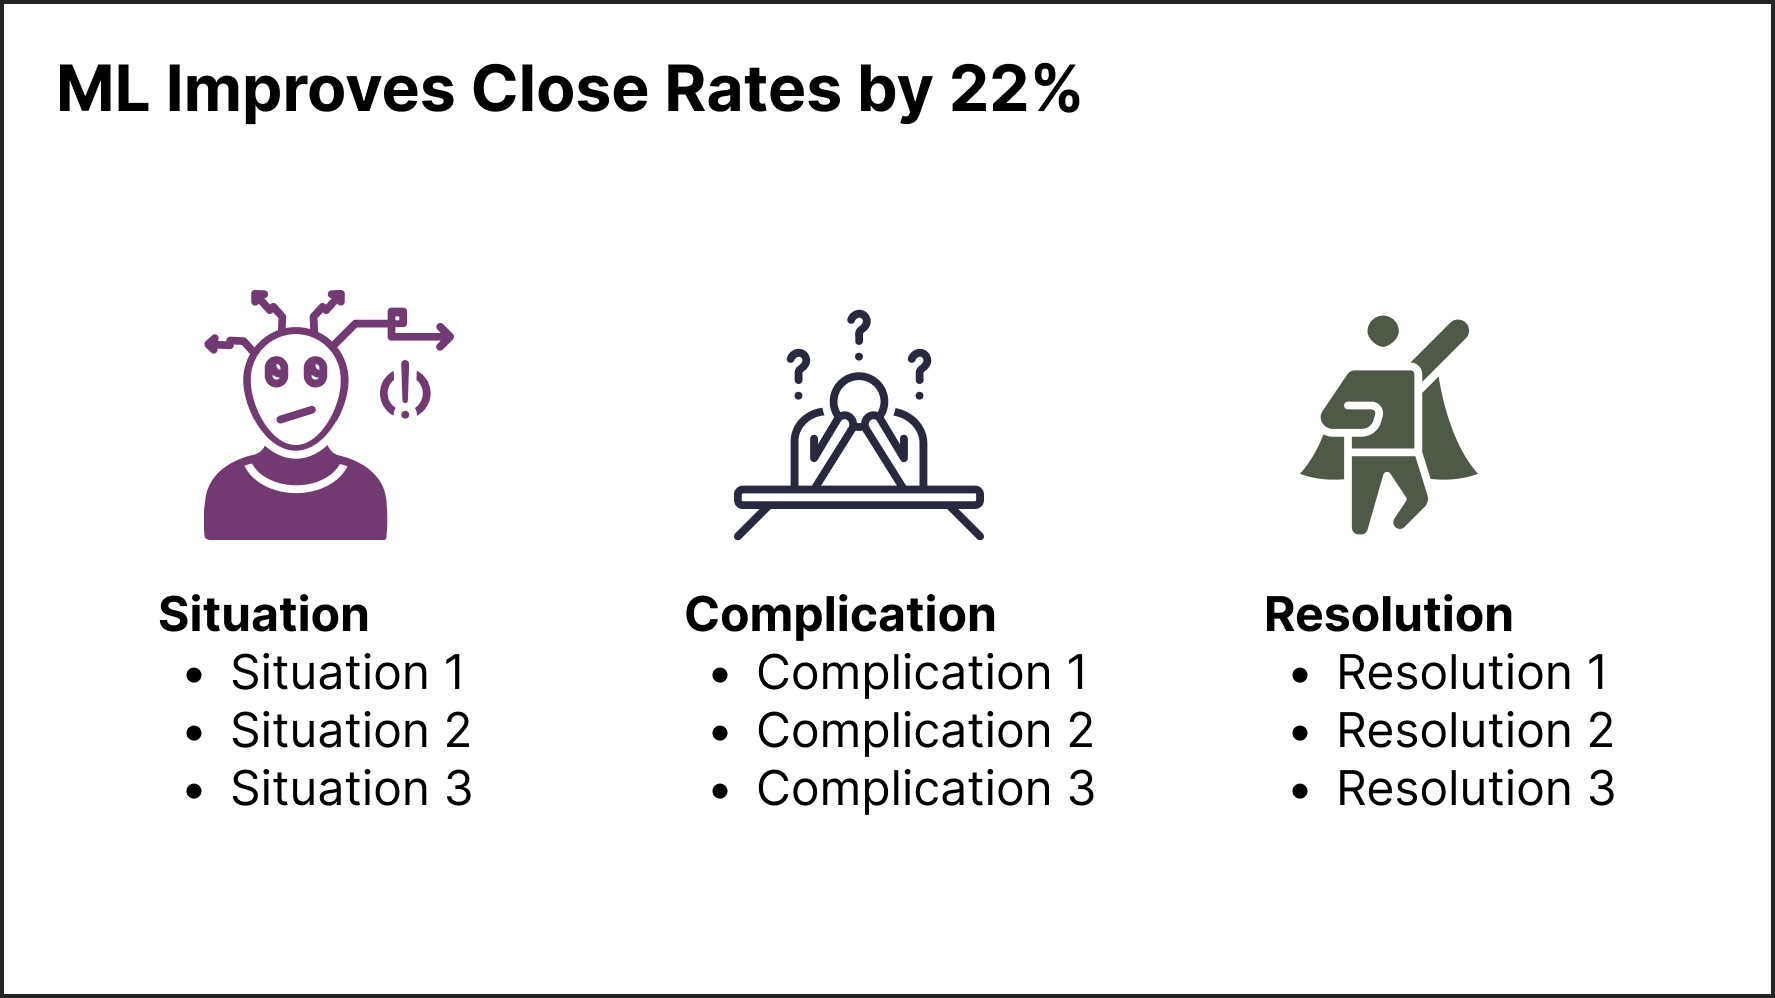
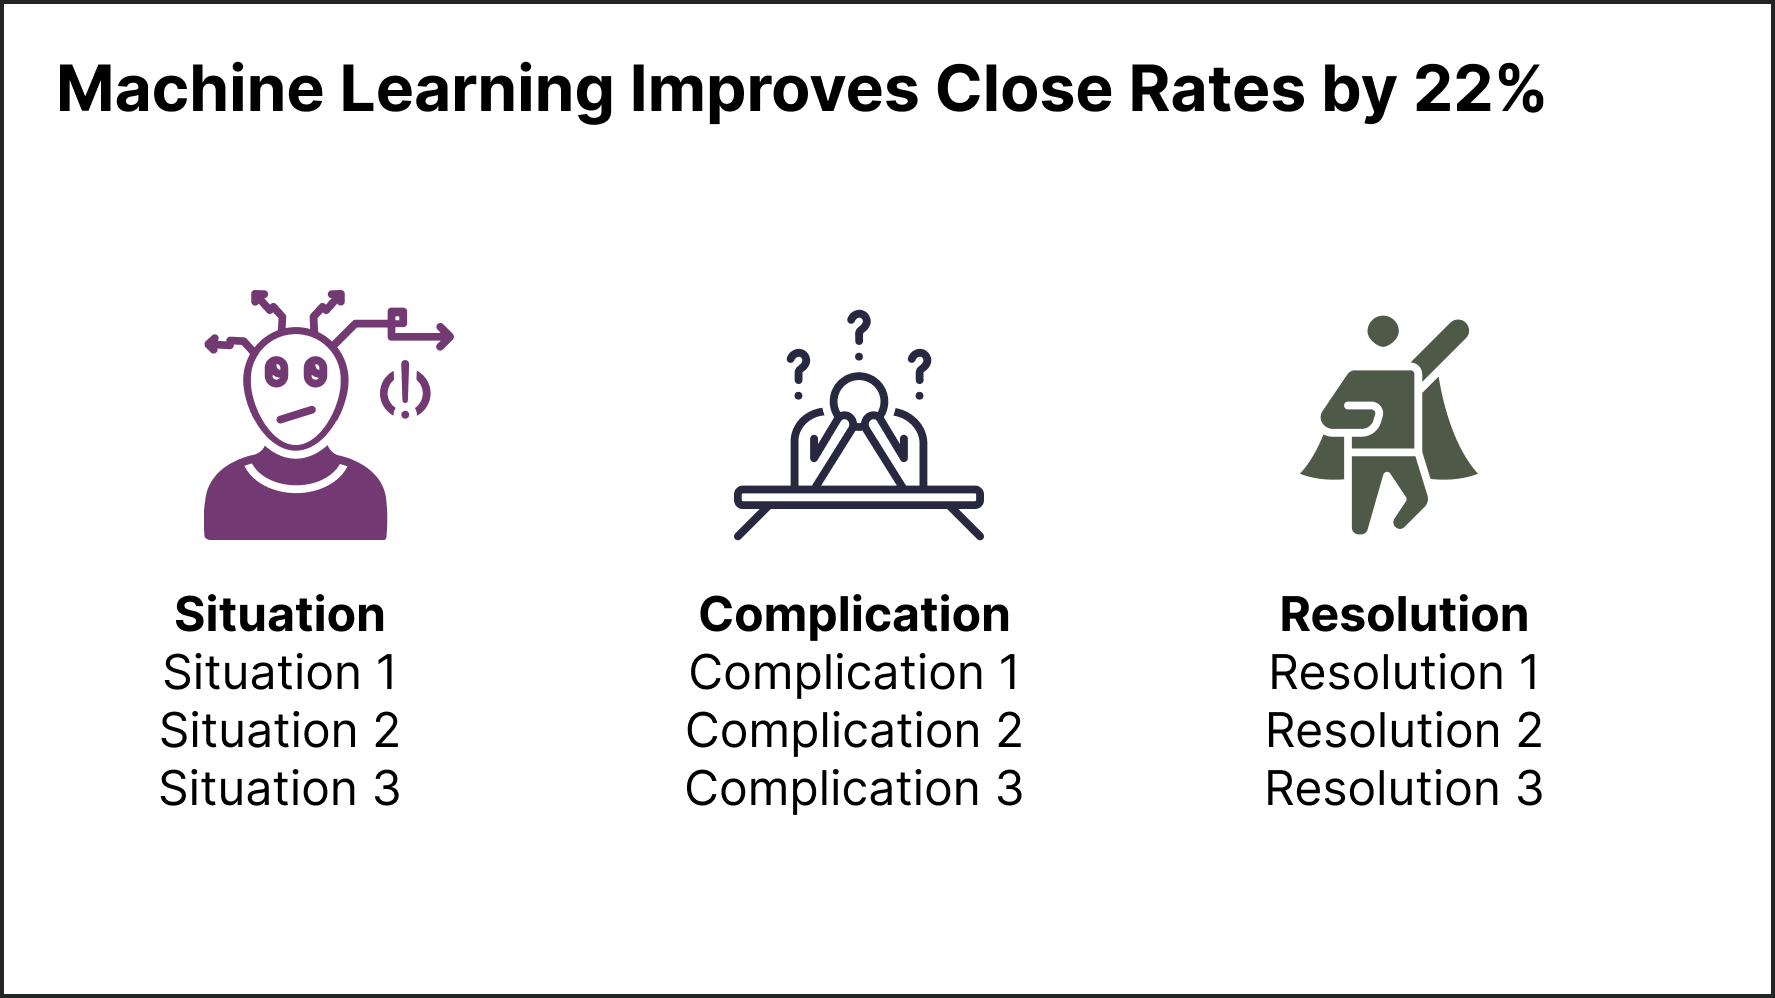
Published

diff --git a/seo_report.html b/seo_report.html
@@ -15,6 +15,103 @@
             <article>
 
                 <div class="article-header">
+                    <h2>storytelling.html</h2>
+                    
+                    <span>2022-06-19 00:00</span>
+                    
+                </div>
+
+                
+
+                    <h3>Page title analysis</h3>
+
+                    <table>
+                        
+                        <tr>
+                            <th class="green">Good</th>
+                            
+                            <td>You have declared a title. Nice job !</td>
+                            
+                            <td>Your title has a good longer.</td>
+                            
+                        </tr>
+                        
+
+                        
+
+                        
+
+                    </table>
+
+                
+
+                    <h3>Page description analysis</h3>
+
+                    <table>
+                        
+                        <tr>
+                            <th class="green">Good</th>
+                            
+                            <td>You have declared a description. Nice job !</td>
+                            
+                            <td>Your description has a good longer</td>
+                            
+                        </tr>
+                        
+
+                        
+
+                        
+
+                    </table>
+
+                
+
+                    <h3>Content title analysis</h3>
+
+                    <table>
+                        
+                        <tr>
+                            <th class="green">Good</th>
+                            
+                            <td>You have declared a content title. Nice job !</td>
+                            
+                        </tr>
+                        
+
+                        
+
+                        
+
+                    </table>
+
+                
+
+                    <h3>Internal link analysis</h3>
+
+                    <table>
+                        
+
+                        
+
+                        
+                        <tr>
+                            <th class="red">Problems</th>
+                            
+                            <td>It's better to include internal links.</td>
+                            
+                        </tr>
+                        
+
+                    </table>
+
+                
+
+            </article>
+            
+            <article>
+
+                <div class="article-header">
                     <h2>featureeng.html</h2>
                     
                     <span>2022-05-15 00:00</span>
@@ -876,106 +973,6 @@
                             <th class="green">Good</th>
                             
                             <td>You've included 6 internal                     links. Nice job !</td>
-                            
-                        </tr>
-                        
-
-                        
-
-                        
-
-                    </table>
-
-                
-
-            </article>
-            
-            <article>
-
-                <div class="article-header">
-                    <h2>bowtfidf.html</h2>
-                    
-                    <span>2022-01-22 00:00</span>
-                    
-                </div>
-
-                
-
-                    <h3>Page title analysis</h3>
-
-                    <table>
-                        
-                        <tr>
-                            <th class="green">Good</th>
-                            
-                            <td>You have declared a title. Nice job !</td>
-                            
-                        </tr>
-                        
-
-                        
-                        <tr>
-                            <th class="orange">To improve</th>
-                            
-                            <td>Your title is too short. The recommended length is 70 characters.</td>
-                            
-                        </tr>
-                        
-
-                        
-
-                    </table>
-
-                
-
-                    <h3>Page description analysis</h3>
-
-                    <table>
-                        
-
-                        
-
-                        
-                        <tr>
-                            <th class="red">Problems</th>
-                            
-                            <td>You need to declare a description to improve SEO.</td>
-                            
-                        </tr>
-                        
-
-                    </table>
-
-                
-
-                    <h3>Content title analysis</h3>
-
-                    <table>
-                        
-
-                        
-
-                        
-                        <tr>
-                            <th class="red">Problems</th>
-                            
-                            <td>You're missing a content title.</td>
-                            
-                        </tr>
-                        
-
-                    </table>
-
-                
-
-                    <h3>Internal link analysis</h3>
-
-                    <table>
-                        
-                        <tr>
-                            <th class="green">Good</th>
-                            
-                            <td>You've included 1 internal                     links. Nice job !</td>
                             
                         </tr>
                         

diff --git a/content/posts/other/storytelling.md b/content/posts/other/storytelling.md
@@ -1,12 +1,12 @@
-Title: Tips for Creating a Compelling Presentation for all Data Scientists
-Date: 2022-06-07
-Modified: 2022-06-07
-Status: draft
-Tags: analytics, datascience, visualization
+Title: 8 Tips for Creating a Compelling Presentation for Data Science
+Date: 2022-06-19
+Modified: 2022-06-19
+Status: published
+Tags: analytics, datascience, visualization, communication
 Slug: storytelling
 Authors: Brian Roepke
 Summary: Tricks every analyst and data scientist can learn to make a compelling presentation
-Description: One skill every Data Scientist needs to learn is  the ability to create a compelling data science presentation, capturing your audiences attention with key takeaways.
+Description: One skill every Data Scientist needs to learn is the ability to create a compelling presentation, capturing your audience's attention with key takeaways.
 Header_Cover: images/covers/story.jpg
 Og_Image: images/covers/story.jpg
 Twitter_Image: images/covers/story.jpg
@@ -14,11 +14,11 @@ Twitter_Image: images/covers/story.jpg
 
 # How to Create a Compelling Slide Deck
 
-As a data scientist, or an analyst, we spend countless hours perfecting our ability to analyze data, build machine learning models, and keep up with the latest technology trends.  One skill however, that everyone needs is the ability to create a compelling data science presentation.
+As data scientists or analysts, we spend countless hours perfecting our ability to analyze data, build machine learning models, and keep up with the latest technology trends. One skill, however, that everyone needs is the ability to create a compelling presentation.
 
->Every Data Scientist, Analyst and Data Engineer needs to get good at building a compelling presentation.
+>Every Data Scientist, Analyst, and Data Engineer needs to get good at building a compelling presentation.
 
-Here are tips and tricks I've gathered over 20 years of presenting to executives, customers, and peers.  None of these tips are actually limited to Data Science and can be used for anyone creating a presentation.  Let's take a qucik look at them.
+Here are tips and tricks I've gathered over 20 years of presenting to executives, customers, and peers. None of these tips are limited to Data Science and can be used by anyone creating a presentation; let's take a quick look at them.
 
 1. Start With an Outline
 2. Storytelling with Situation, Complication, Resolution
@@ -26,75 +26,105 @@ Here are tips and tricks I've gathered over 20 years of presenting to executives
 4. The Rule of Three
 5. Write Slide Titles as Outcomes
 6. Reading Titles Outloud
-7. Bolding Keywords
+7. Focus Your Audience's Attention
 8. Creating Compelling Data Visualizations
 
 Let's get started! 
 
 ## Start With an Outline
 
-Often times, when starting a presentation, they open PowerPoint, Keynote or their tool of choice and start trying to immedialy build the deck.  This issues of course is you're going to iterate 100 times on the slides and probably end up deleting most of what you've created.  
+When starting a presentation, they often open PowerPoint, Keynote, or their tool of choice and start trying to build the deck immediately. This issue, of course, is that you're going to iterate 100 times on the slides and probably end up deleting most of what you've created. 
 
-A better way to approach this is to start with an **outline**, No different than you were taught in English 101.  But don't think of this as an outline of the slides you want to create, think of this as the story you're going to tell.  There are two common ways to create an outline. The first is by simply using orderd lists and scructure your online by ideas or sections of your story (I'll cover the stoytelling part next) or if you're a more visual person you can use a **mind map** and structure it similarily.
+A better way to approach this is to start with an **outline**, No different than you were taught in English 101. But don't think of this as an outline of the slides you want to create.  Think of the outline as the story you're going to tell. There are two common ways to create an outline. The first is simply using ordered lists and structuring your online by ideas or sections of your story (I'll cover the storytelling part next). If you're a more visual person, you can use a **mind map** and structure it similarily.
 
-Once you have your ouline set, creating the supporting content is a breeze.
+Once you have your outline set, creating the supporting content is a breeze.
 
 ## Storytelling with Situation, Complication, Resolution
 
-A classic story telling framework is known as the [Hero's Journey](https://en.wikipedia.org/wiki/Hero%27s_journey).  The general idea is that a hero goes on a journey, some sort of obstical is introduced into and finally the hero is able to overcome that obstical and everyone lives hapily ever after.
+A classic storytelling framework is the [Hero's Journey](https://en.wikipedia.org/wiki/Hero%27s_journey). The general idea is that a hero goes on a journey and introduces some obstacles; finally, the hero can overcome that obstacle, and everyone lives happily ever after.
 
-In our business presentations we can use a similar framework called **Situation-Complication-Resolution** or **SCR**.  I was first introduced to SCR through the book [The Pyramid Principle](https://www.amazon.com/Pyramid-Principle-Logic-Writing-Thinking/dp/1292372265) by Barbara Minto who popularized this method while working at McKinsey Consulting.  The structure of this is perfect for creating a business story.  It's a simple framework, it keeps you organized in your structure, it brings action oriented results, and it fits into the Rule-of-Three which I'll cover later.
+In our business presentations, we can use a similar framework called **Situation-Complication-Resolution** or **SCR**. I was first introduced to SCR through the book [The Pyramid Principle](https://www.amazon.com/Pyramid-Principle-Logic-Writing-Thinking/dp/1292372265) by Barbara Minto, who popularized this method while working at McKinsey Consulting. The structure of this is perfect for creating a business story. It's a simple framework that keeps you organized in your structure, brings action-oriented results, and fits into the Rule-of-Three, which I'll cover later.
 
 * **Situation**: Facts about the current state.
-* **Complication**: The reason action is required based on the situation.
-* **Resolution**: The action taken or reccomended to solve the complication.
+* **Complication**: Action is required based on the situation.
+* **Resolution**: The action is taken or recommended to solve the complication.
 
-Using our outline format, here is an overly simplified example of of SCR.  In practice, you would introduce more details as sub items of the nodes. Utilizing SCR will help you create a clean, compelling story!
+Using our outline format, here is an overly simplified example of SCR. In practice, you would introduce more details as sub-items of the nodes. Utilizing SCR will help you create a clean, compelling story!
 
 ![Mind Map Outline]({static}../../images/posts/storytelling_01.png)
 
 ## The One Miniute Per Slide Rule
 
-This one is simple and effective. As opposed to creating your presentation and reherssing the timing, just consider that each major content slide will **take one minute to present**.  If you have a 20 minute presentation, aim for 20 slides with content.  This doesn't include section dividers, the cover or a closing logo slide.  What i've found over the years is that generally speaking, some will take longer, some will be shorter, but on average, they'll take about a minute.
+This one is simple and effective. Instead of creating your presentation and rehearsing the timing, consider that each major content slide will **take one minute to present**. If you have a 20-minute presentation, aim for 20 slides with content. You should not include section dividers, the cover, or a closing logo slide in your count. I've found over the years that, generally speaking, some will take longer, some will be shorter, but on average, they'll take about a minute.
 
-Eliminate the stress from trying to figure out how much content you need to create.
+Eliminate the stress from figuring out how much content you need to create.
 
 ## The Rule of Three
 
-Another wonderful rule of thumb is the **Rule of Three**.  The rule of three is simple, stick with three and only three items when building your structure.  Whether it's sections of your story, as in the SCR framework, or the number of bullet points on your slide.  [Apple](https://www.inc.com/carmine-gallo/apple-is-obsessed-with-magical-number-3-it-will-transform-your-presentations-too.html) has implemented this all over their presentation and product lines and [science has shown](http://uberconvince.com/2018/01/14/rule-3-trios-makes-copy-memorable-according-science/) that our brain loves patterns and three is the minimum number needed to form a [pattern](https://copyblogger.com/rule-of-three/).
+Another great rule of thumb is the **Rule of Three**. The rule of three is simple: stick with three and only three items when building your structure, sections of your story, as in the SCR framework, or the number of bullet points on your slide. [Apple](https://www.inc.com/carmine-gallo/apple-is-obsessed-with-magical-number-3-it-will-transform-your-presentations-too.html) has implemented this all over their presentation and product lines, and [science has shown](http://uberconvince.com/2018/01/14/rule-3-trios-makes-copy-memorable-according-science/) that our brain loves patterns and three is the minimum number needed to form a [pattern](https://copyblogger.com/rule-of-three/).
 
-Structuring your slides utilizing the rule of three will not only help your audience remember your content, but it will also simplify building the presentation.  You might be tempted to think "more information is better with four, six, eight bullet points.  No one will ever be able to follow all of that, so cut it down to the three most impactful messages.
+Structuring your slides utilizing the rule of three will help your audience remember your content and simplify building the presentation. You might be tempted to think, "more information is better with four, six, or eight bullet points. No one will ever be able to follow all that, so cut it down to the three most impactful messages.
 
-Another trick if you have slightly more information is to structure in three-by-three like the image below.  
+Another trick if you have slightly more information is to structure it three-by-three like the image below. 
 
 ![Mind Map Outline]({static}../../images/posts/storytelling_02.png)
 
 ## Write Slide Titles as Outcomes
 
+I often see the mistake of Data Scientists writing their slide titles describing what is on the slide vs. what the **outcome** or **takeaway** of the slide is. This simple practice you can get into will dramatically improve your presentation with little effort. Let's take a look at a couple of examples.
 
+| Subject-Based                          | Outcome-Based                                               |
+|----------------------------------------|-------------------------------------------------------------|
+| Algorithm Training and Validation      | Predict Customer Churn with 92% Accuracy                    |
+| Q1 Conversation Rates                  | Accounts With Direct Contact are 5x More Likely to Purchase |
+| Utilizing XGBoost to Classify Accounts | Machine Learning Improves Close Rates by 22%                |
+
+It is pretty clear with examples like this which is more compelling to your audience. Remember, your slide titles are the **outcome** of your slide!
 
 ## Reading Titles Outloud
 
-There are [plenty](https://hbr.org/2013/06/how-to-give-a-killer-presentation) [of](https://www.inc.com/jason-aten/please-stop-reading-off-your-powerpoint-slides-heres-what-to-do-instead.html) [articles](https://www.techwell.com/2013/10/give-better-presentation-don-t-read-your-slides) that will tell you not to read your slides outloud.  Reading your content directly from your slides is a sure fire way to bore your audiece and loose their attention.
+There are [plenty](https://hbr.org/2013/06/how-to-give-a-killer-presentation) [of](https://www.inc.com/jason-aten/please-stop-reading-off-your-powerpoint-slides-heres-what-to-do-instead.html) [articles](https://www.techwell.com/2013/10/give-better-presentation-don-t-read-your-slides) that will tell you not to read your slides out loud. Reading your content directly from your slides is a sure-fire way to bore your audience and lose their attention.
 
-However, I have one caveat to that rule; **read your slide titles outloud**.  
+However, I have one caveat to that rule; **read your slide titles out loud**. 
 
 According to [Naegle](https://doi.org/10.1371/journal.pcbi.1009554): 
 
->Reading and verbal processing use the same cognitive channels—therefore, an audience member can either read the slide, listen to you, or do some part of both (each poorly), as a result of cognitive overload.
+>Reading and verbal processing use the same cognitive channels—therefore, an audience member can either read the slide, listen to you, or do some part of both (each poorly) due to cognitive overload.
 
-By reading just the tile and title only as you start each slide, the audience will be able to process the message much more easily vs. reading the words that are written and listening to you at the same time.  While this might feel uncomfortable at first, practice it a bit with some colleagues and see for yourself! 
+By reading just the tile and title only as you start each slide, the audience will be able to process the message much more easily than reading the written words and listening to you simultaneously. While this might feel uncomfortable initially, practice it with some colleagues and see for yourself! 
 
-For the rest of the slide, do not to read the conntent, especially if you ues a lot of bulleted or ordered lists.  This can be monotonous as mentiond above.
+For the rest of the slide, do not read the content, especially if you use a lot of bulleted or ordered lists. Reading all of your content can be monotonous, as mentioned above.
 
-## Bolding Keywords
+## Focus Your Audience's Attention
 
+When you have more than just a single word or number on your slide (which can also be a really powerful practice), you can leverage techniques or attributes to focus your audience's attention on the most important words. These attention getters are known as **preattentive attributes**.
+
+When your eyes and brain first see a slide, for the first fraction of a second, you are drawn to different elements that stand out. Items can be in **bold**, **italics**, or a different **color** or **size**. The fact that they are different from the main text is how you can focus your attention.
+
+A great example of this is adapted from Stephen Few's [Tapping into the Power of Visual Perception](http://www.perceptualedge.com/articles/ie/visual_perception.pdf). When we look at the first block of text, it all tends to blend. If we were to ask you, "tell me how many number sevens there are," it would take a little time.
+
+![Without Preattentive Attributes]({static}../../images/posts/storytelling_03.png)
+
+However, when you look at the second image where we've tapped into preattentive attributes of **bold** and **color**, we can see each seven. 
+
+![With Preattentive Attributes]({static}../../images/posts/storytelling_04.png)
+
+This concept also directly applies to building data visualizations, which we'll cover next.
 
 ## Creating Compelling Data Visualizations
 
+This section alone could warrant an entire article (or book) written about it. The good news is that the are great ones that already exist. I recommend two that you should get right now:
 
-* Using color deliberatley
+1. [Storytelling with Data](https://www.amazon.com/Storytelling-Data-Visualization-Business-Professionals/dp/1119002257) by **Cole Nussbaumer Knaflic**
+2. [Data Story](https://www.amazon.com/DataStory-Explain-Inspire-Action-Through/dp/1940858984) by **Nancy Duarte**
 
+Both of these books cover how to build a better visualization. Read these, study them, and refer to them each time you build a visual and a presentation.
+
+## Conclusion
+
+Learning how to present your Data Scient project results compellingly is one of the most critical skills you can learn. We covered how to start with an outline, utilizing storytelling frameworks to structure your presentation, the one-minute rule, and the rule of three. We also discussed how to form better titles by writing them as outcomes instead of subjects. We talked about two ways to focus your audience's attention: reading your titles aloud when presenting and tapping into preattentive attributes through methods like bold and color. Finally, we covered creating a compelling visualization of your data. Follow these as guidelines for your next presentation, and I'm confident you will be able to create a compelling presentation.
+
+*If you liked what you read, [subscribe to my newsletter](https://campaign.dataknowsall.com/subscribe) and you will get my cheat sheet on Python, Machine Learning (ML), Natural Language Processing (NLP), SQL, and more. You will receive an email each time a new article is posted.*
 
 ## References
 
